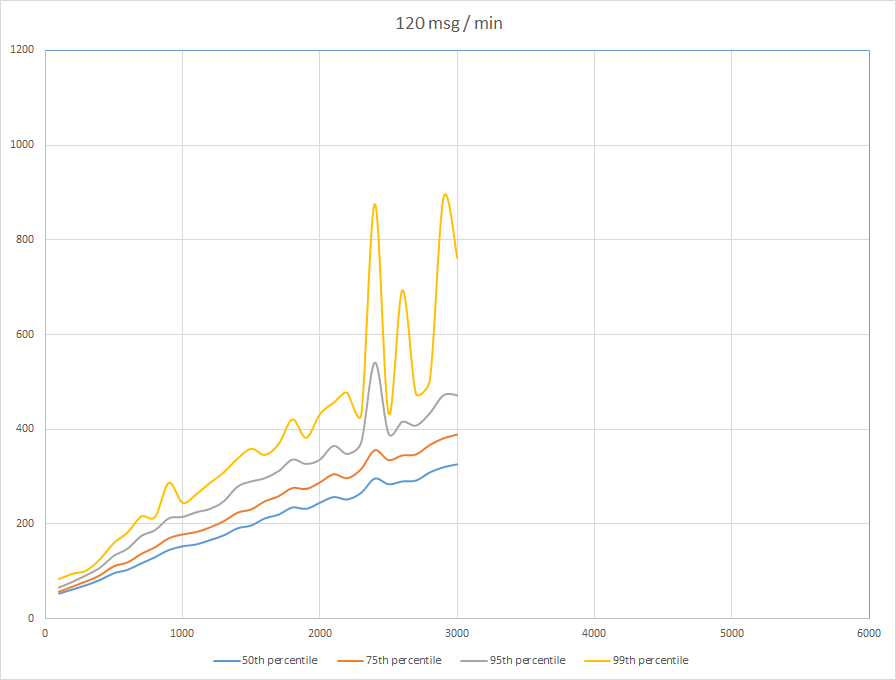
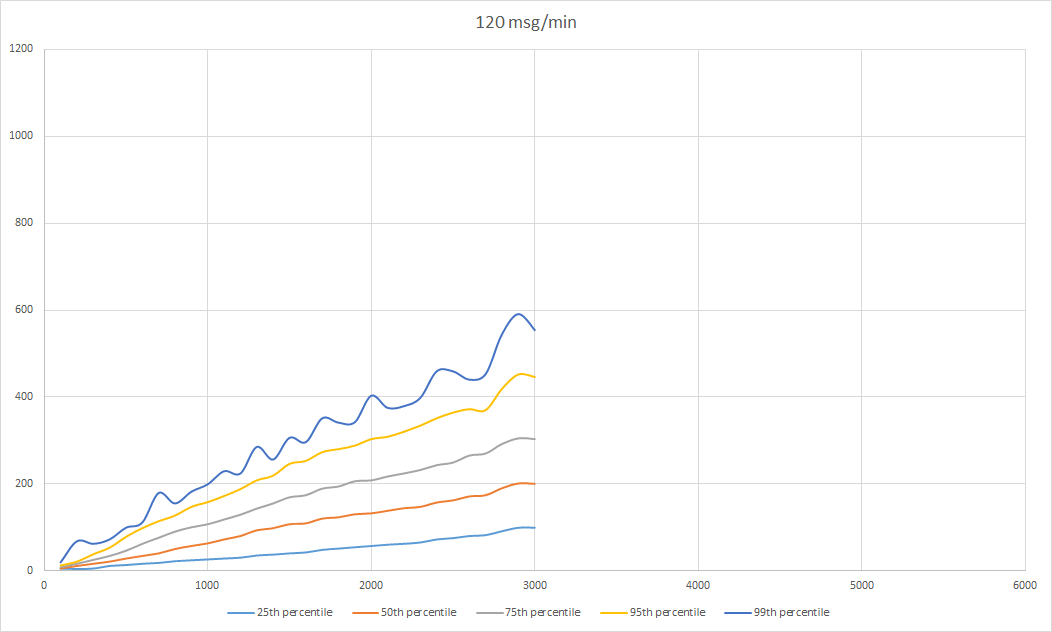
UPDATE: performance report

diff --git a/performance.md b/performance.md
@@ -1,6 +1,8 @@
 # Performance
 
-This is the load test of Bitsocket running on low cost (1$ per month) virtual server with following configuration:
+## Server setup
+
+This is the load test of BitSocket running on low cost (1$ per month) virtual server having following configuration:
 
 - VMware hypervisor
 - CPU: 1 vCore
@@ -8,17 +10,12 @@ This is the load test of Bitsocket running on low cost (1$ per month) virtual se
 
 ## Results
 
-### Latency per clients
-First test distributed 1 message per second. Connected clients has been increased by 100 every two minutes. Following graph shows latency for connected clients. 
+First test publishes 1 message per second. Each two minutes, 100 new clients are connected. **Message delivery latency** is computed as the difference between time of message publication (measured prior to endpoint call) and message receipt by client. Following graph shows latency statistics per count of clients.
 
 [![performance results](assets/images/perf1.png "Performance results 1")](assets/images/perf1.png)
 
-If we send 2 messages per second, distribution is working nearly same until 3000 clients. This is the cap for given server configuration.
+Second test doubles the message rate. Statistics are nearly identical until 3000 clients where throughput cap for given server configuration is reached.
 
 [![performance results](assets/images/perf2.png "Performance results 2")](assets/images/perf2.png)
 
 Network latencies are not included.
-
-### Latency per messages
-
-TODO
